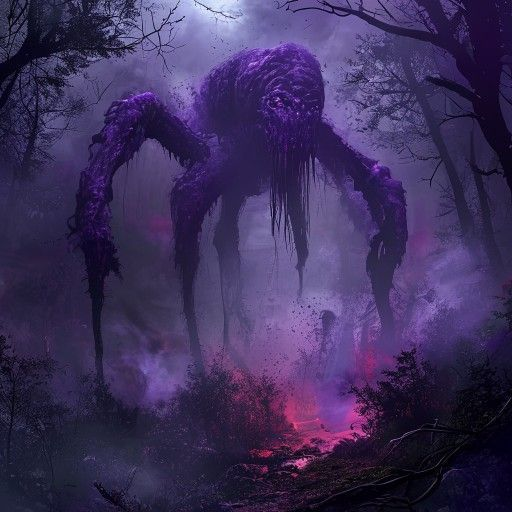
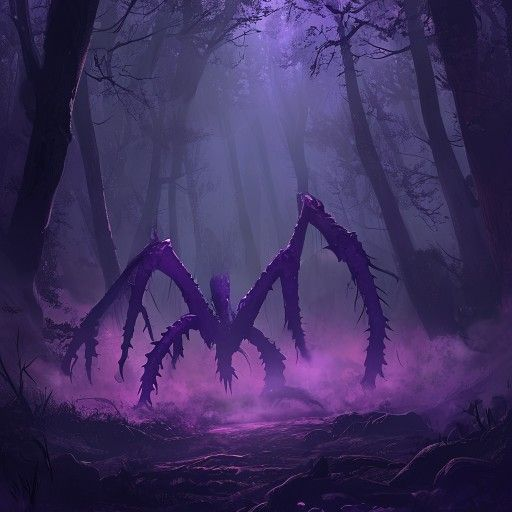
Part Two: The Next Day + Giant Legs grows five legs
Evan's new story continuation accessible from Part One ending:
- Slime Blob, Terradaxoar, and Giant Legs hunt Tree Surprisers
- They eat too many and EXPLODE
- Belly Bonker returns, zombie eats the remains
- Giant Legs grows from 2 to 5 legs (never gets hungry)
- 10 more zombies arrive, team up to 11
- Zombies spare Belly Bonker (friends!) and feast on the biggest tree
- 10 new scene images + updated Giant Legs portrait (5 legs)
- Sound effects and screen flashes for Part Two pages

diff --git a/index.html b/index.html
@@ -570,7 +570,7 @@
       <div class="monster-card" onclick="showMonsterInfo('giantlegs')">
         <img src="images/giant-legs.png" alt="Giant Legs" loading="lazy">
         <div class="name">Giant Legs</div>
-        <div class="power">Just legs. STOMP!</div>
+        <div class="power">FIVE legs. STOMP!</div>
       </div>
       <div class="monster-card" onclick="showMonsterInfo('terradaxoar')">
         <img src="images/terradaxoar.png" alt="Terradaxoar" loading="lazy">
@@ -819,6 +819,148 @@
     <span class="glow-green">A story by Evan</span>
   </div>
 
+  <div class="title-buttons">
+    <button class="restart-btn" onclick="restart()">Read Again? 🦇</button>
+    <button class="restart-btn battle-btn" onclick="goToPage('p2-1')">Part Two: The Next Day... 🌙</button>
+  </div>
+</div>
+
+<!-- ==================== PART TWO: PAGE 1 - THE HUNT ==================== -->
+<div class="page" id="p2-1">
+  <div class="story-image-container">
+    <img src="images/p2-villains-hunt.png" alt="The villains are hungry" loading="lazy">
+  </div>
+  <div class="story-text">
+    <span class="big-text">THE NEXT DAY...</span>
+    The sun went down and the forest got dark again. The <span class="highlight">Slime Blob</span>, the <span class="highlight">Terradaxoar</span>, and <span class="highlight">Giant Legs</span> woke up. They were <span class="glow-green">STARVING</span>. And they wanted to eat some Tree Surprisers.
+  </div>
+
+  <button class="next-btn" onclick="goToPage('p2-2')">But there were SO many trees... ➜</button>
+</div>
+
+<!-- ==================== PART TWO: PAGE 2 - TOO MANY TREES ==================== -->
+<div class="page" id="p2-2">
+  <div class="story-image-container">
+    <img src="images/p2-too-many-trees.png" alt="Too many Tree Surprisers!" loading="lazy">
+  </div>
+  <div class="story-text">
+    There were <span class="highlight">TOO MANY</span> Tree Surprisers! Everywhere they looked, trees with glowing eyes and mouths full of teeth. The Slime Blob only managed to eat <span class="glow-green">ONE</span>. But then they spotted one Tree Surpriser off by itself. It wasn't ready to battle. It was just standing there, sleepy...
+  </div>
+
+  <button class="next-btn" onclick="goToPage('p2-3')">Get it! ➜</button>
+</div>
+
+<!-- ==================== PART TWO: PAGE 3 - THEY EAT THE SLEEPY ONE ==================== -->
+<div class="page" id="p2-3">
+  <div class="story-image-container" id="p2EatScene">
+    <img src="images/p2-eat-sleepy-tree.png" alt="They eat the sleepy tree!" loading="lazy">
+  </div>
+  <div class="story-text">
+    The Slime Blob, the Terradaxoar, and Giant Legs all <span class="highlight">JUMPED</span> on the sleepy Tree Surpriser! It didn't even have time to open its mouths! They tore it apart and ate every last branch! But there were still <span class="glow-green">MORE</span> trees to eat. So they kept going. And going. And <span class="highlight">GOING</span>.
+  </div>
+
+  <button class="next-btn" onclick="goToPage('p2-4')">They ate them ALL?! ➜</button>
+</div>
+
+<!-- ==================== PART TWO: PAGE 4 - TOO FULL, EXPLODE ==================== -->
+<div class="page" id="p2-4">
+  <div class="explosion-wrapper" id="p2ExplosionWrapper">
+    <div class="story-image-container pulse-red" id="p2ExplosionScene">
+      <img src="images/p2-too-full-explode.png" alt="They EXPLODED!" loading="lazy">
+    </div>
+    <canvas class="explosion-canvas" id="p2ExplosionCanvas"></canvas>
+  </div>
+  <div class="story-text">
+    They ate <span class="highlight">EVERY. SINGLE. TREE SURPRISER.</span> Their bellies were so full they could barely move. The Slime Blob was round as a basketball. Giant Legs could barely stand. The Terradaxoar couldn't even fly. And then...
+    <br>
+    <span class="big-text">THEY EXPLODED!!!</span>
+    Slime and wood and legs and eyeballs went <span class="highlight">EVERYWHERE</span>.
+  </div>
+
+  <button class="next-btn" onclick="goToPage('p2-5')">Then what crawled out of the ground? ➜</button>
+</div>
+
+<!-- ==================== PART TWO: PAGE 5 - BELLY BONKER RETURNS ==================== -->
+<div class="page" id="p2-5">
+  <div class="story-image-container" id="p2BellyScene">
+    <img src="images/p2-belly-returns.png" alt="Belly Bonker comes back!" loading="lazy">
+  </div>
+  <div class="story-text">
+    <span class="big-text">BOOOOM.</span>
+    The ground cracked open and the <span class="highlight">Belly Bonker</span> crawled out! Its belly eye glowed <span class="glow-green">bright green</span>. It looked around at the mess. Bits of Slime Blob, Terradaxoar pieces, and Giant Legs parts were scattered everywhere.
+    <br><br>
+    Then a <span class="highlight">GIANT ZOMBIE</span> stomped over and ate what was left of all three of them! Swallowed the Slime Blob, the Terradaxoar, and the Giant Legs in three huge bites!
+  </div>
+
+  <button class="next-btn" onclick="goToPage('p2-6')">Wait... Giant Legs looks different! ➜</button>
+</div>
+
+<!-- ==================== PART TWO: PAGE 6 - GIANT LEGS GROWS FIVE LEGS ==================== -->
+<div class="page" id="p2-6">
+  <div class="story-image-container">
+    <img src="images/p2-five-legs.png" alt="Giant Legs grows FIVE legs!" loading="lazy">
+  </div>
+  <div class="story-text">
+    But inside the zombie's belly, something was happening. <span class="highlight">Giant Legs</span> was changing. It used to have two legs. Now it was growing more. Three... four... <span class="big-text">FIVE LEGS!!!</span>
+    With five legs, Giant Legs could poop and pee out a <span class="highlight">TON</span> of stuff at the same time. That meant it <span class="glow-green">NEVER got hungry</span>. Ever. It burst right out of the zombie!
+  </div>
+
+  <button class="next-btn" onclick="goToPage('p2-7')">Then the ground started shaking AGAIN... ➜</button>
+</div>
+
+<!-- ==================== PART TWO: PAGE 7 - TEN MORE ZOMBIES ==================== -->
+<div class="page" id="p2-7">
+  <div class="story-image-container pulse-red" id="p2ZombieScene">
+    <img src="images/p2-ten-zombies.png" alt="TEN MORE ZOMBIES!" loading="lazy">
+  </div>
+  <div class="story-text">
+    <span class="big-text">BOOM. BOOM. BOOM. BOOM. BOOM.</span>
+    The ground cracked open in <span class="highlight">TEN</span> different places. <span class="highlight">TEN MORE GIANT ZOMBIES</span> crawled out of the earth! They stomped over to the first zombie and they all looked at each other. They were a <span class="glow-green">TEAM</span>. <span class="highlight">ELEVEN ZOMBIES</span>.
+  </div>
+
+  <button class="next-btn" onclick="goToPage('p2-8')">What did they want to eat?! ➜</button>
+</div>
+
+<!-- ==================== PART TWO: PAGE 8 - FRIENDS WITH BELLY BONKER ==================== -->
+<div class="page" id="p2-8">
+  <div class="story-image-container">
+    <img src="images/p2-zombies-belly-friends.png" alt="The zombies and Belly Bonker are friends!" loading="lazy">
+  </div>
+  <div class="story-text">
+    The eleven zombies turned toward the <span class="highlight">Belly Bonker</span>. They wanted to <span class="highlight">FEAST</span>. But wait... the Belly Bonker's eye looked up at them. They remembered. The Belly Bonker and the zombies were <span class="glow-green">good friends</span>. They couldn't eat a friend!
+    <br><br>
+    So the eleven zombies needed to find something <span class="highlight">ELSE</span> to eat.
+  </div>
+
+  <button class="next-btn" onclick="goToPage('p2-9')">There was one tree left... ➜</button>
+</div>
+
+<!-- ==================== PART TWO: PAGE 9 - THE BIGGEST TREE ==================== -->
+<div class="page" id="p2-9">
+  <div class="story-image-container" id="p2BigTreeScene">
+    <img src="images/p2-biggest-tree.png" alt="The BIGGEST Tree Surpriser!" loading="lazy">
+  </div>
+  <div class="story-text">
+    There was still <span class="highlight">ONE</span> more Tree Surpriser. The <span class="big-text">BIGGEST ONE</span> in the entire forest. Taller than a skyscraper. Roots as thick as cars. And it had more mouths than any tree they'd ever seen. But eleven zombies didn't care. They <span class="highlight">CHARGED</span>.
+  </div>
+
+  <button class="next-btn" onclick="goToPage('p2-end')">CHOMP!!! ➜</button>
+</div>
+
+<!-- ==================== PART TWO: ENDING ==================== -->
+<div class="page" id="p2-end">
+  <div class="story-image-container">
+    <img src="images/p2-zombies-feast.png" alt="The zombies feast!" loading="lazy">
+  </div>
+  <div class="story-text">
+    The eleven zombies tore into the biggest Tree Surpriser from every side! They ripped branches, chewed roots, and swallowed everything. The Belly Bonker watched from a safe distance, belly eye glowing softly. When it was over, the biggest tree in the forest was <span class="highlight">GONE</span>.
+    <br><br>
+    The zombies let out eleven <span class="highlight">ROARS</span> that shook the whole world. Then they sank back into the ground, one by one. The Belly Bonker's eye dimmed. The forest was empty and quiet.
+    <br><br>
+    <span class="big-text">THE END</span>
+    <span class="glow-green">Part Two — A story by Evan</span>
+  </div>
+
   <button class="restart-btn" onclick="restart()">Read Again? 🦇</button>
 </div>
 
@@ -1045,6 +1187,36 @@
         document.getElementById('zombieScene')?.classList.remove('mega-shake');
         flashScreen('red');
       }, 1000);
+    } else if (pageId === 'p2-3') {
+      playSpookySound('chomp');
+      document.getElementById('p2EatScene')?.classList.add('shake');
+      setTimeout(() => document.getElementById('p2EatScene')?.classList.remove('shake'), 600);
+    } else if (pageId === 'p2-4') {
+      playSpookySound('explosion');
+      flashScreen('red');
+      document.getElementById('p2ExplosionScene')?.classList.add('mega-shake');
+      setTimeout(() => {
+        flashScreen('green');
+        document.getElementById('p2ExplosionScene')?.classList.remove('mega-shake');
+      }, 300);
+      setTimeout(() => flashScreen('red'), 600);
+    } else if (pageId === 'p2-5') {
+      playSpookySound('zombie');
+      flashScreen('red');
+      document.getElementById('p2BellyScene')?.classList.add('shake');
+      setTimeout(() => document.getElementById('p2BellyScene')?.classList.remove('shake'), 600);
+    } else if (pageId === 'p2-7') {
+      playSpookySound('zombie');
+      flashScreen('red');
+      document.getElementById('p2ZombieScene')?.classList.add('mega-shake');
+      setTimeout(() => {
+        document.getElementById('p2ZombieScene')?.classList.remove('mega-shake');
+        flashScreen('red');
+      }, 1000);
+    } else if (pageId === 'p2-9') {
+      playSpookySound('chomp');
+      document.getElementById('p2BigTreeScene')?.classList.add('shake');
+      setTimeout(() => document.getElementById('p2BigTreeScene')?.classList.remove('shake'), 600);
     } else {
       playSpookySound('page');
     }
@@ -1074,7 +1246,7 @@
       power: 'Invisible to everyone! Looks just like a rock!',
       weakness: 'Only the Spider Scope can see it!' },
     giantlegs: { img: 'images/giant-legs.png', name: 'Giant Legs',
-      power: 'No body, no head. JUST LEGS. Stomps everything flat!',
+      power: 'No body, no head. FIVE LEGS that stomp everything flat! Never gets hungry!',
       weakness: 'Has no eyes or brain... runs into things and falls over!' },
     terradaxoar: { img: 'images/terradaxoar.png', name: 'Terradaxoar',
       power: 'Flies with FIVE eyes that see everything, and an ELECTRIC TAIL that zaps!',

diff --git a/generate_images.py b/generate_images.py
@@ -14,7 +14,7 @@ STYLE = "dark fantasy digital art, spooky childrens book illustration, dark atmo
 
 # === MONSTER PORTRAITS ===
 PORTRAITS = {
-    'giant-legs.png': f"a terrifying creature that is ONLY giant muscular purple legs with NO body NO head NO torso, just four enormous legs stomping through a dark haunted forest at night, dust clouds from stomping, {STYLE}",
+    'giant-legs.png': f"a terrifying creature that is ONLY giant muscular purple legs with NO body NO head NO torso, exactly FIVE enormous legs arranged in a star pattern stomping through a dark haunted forest at night, dust clouds from stomping, {STYLE}",
     'terradaxoar.png': f"a dark flying monster called Terradaxoar soaring through a night sky, it has exactly FIVE glowing orange eyes arranged in a horizontal row across its wide flat head like a row of five headlights, dark blue-grey bat-like wings spread wide, sharp talons, and a long whip-like tail crackling with blue-white electricity and lightning bolts, menacing, {STYLE}",
     'slime-blob.png': f"a round spiky green slime monster with an evil grin and glowing red eyes, covered in sharp spikes, pieces of it floating nearby reconnecting with green energy lines showing it can regenerate and heal, dark forest background, {STYLE}",
 }
@@ -42,6 +42,20 @@ BATTLES = {
     'battle-giantlegs-terradaxoar.png': f"a dark flying monster with exactly FIVE glowing orange eyes in a row across its flat head and an electric lightning tail attacking enormous disembodied legs from above, diving and striking repeatedly while the legs kick uselessly at the sky, dramatic battle, {STYLE}",
     'battle-giantlegs-healbeast.png': f"enormous disembodied giant legs repeatedly stomping a round green slime blob flat, the slime trying to reform but getting stomped again and again, dark dramatic scene, {STYLE}",
     'battle-terradaxoar-healbeast.png': f"a dark flying monster with exactly FIVE glowing orange eyes in a row across its flat head and an electric lightning tail carrying green slime pieces in different directions over five different oceans, dropping the pieces far apart so they cannot heal back together, epic aerial scene, {STYLE}",
+}
+
+# === PART TWO STORY SCENES ===
+PART_TWO = {
+    'p2-villains-hunt.png': f"a green spiky slime blob monster, a dark flying bat monster with glowing eyes and lightning tail, and enormous disembodied purple legs all prowling through a dark forest at night looking hungry, menacing trio of monsters hunting together, {STYLE}",
+    'p2-too-many-trees.png': f"hundreds of monstrous evil tree creatures with glowing eyes and mouths full of teeth filling an entire dark forest, three small monsters looking overwhelmed and surrounded, {STYLE}",
+    'p2-eat-sleepy-tree.png': f"three monsters attacking a single sleepy monstrous tree creature, a slime blob a flying bat creature and giant legs all jumping on the tree and tearing it apart, wood flying everywhere, dark forest, {STYLE}",
+    'p2-too-full-explode.png': f"three monsters with enormously bloated round bellies about to EXPLODE from eating too much, a green slime blob round as a ball, giant legs wobbling, a flying creature too heavy to fly, all about to burst, dark forest with tree debris everywhere, {STYLE}",
+    'p2-belly-returns.png': f"a dark furry monster with a glowing green belly button eye crawling out of a crack in the ground, a giant zombie stomping nearby eating monster remains, dark dramatic scene, {STYLE}",
+    'p2-five-legs.png': f"a terrifying creature that is ONLY five enormous muscular purple legs arranged in a star pattern with NO body NO head, the legs glowing with energy, bursting out of a giant zombie stomach, dramatic dark scene with debris flying, {STYLE}",
+    'p2-ten-zombies.png': f"TEN giant zombies crawling out of cracks in the ground simultaneously, rotting green flesh and glowing red eyes, the ground splitting open in ten places, apocalyptic dark scene, {STYLE}",
+    'p2-zombies-belly-friends.png': f"eleven giant zombies standing peacefully next to a small dark furry monster with a glowing green belly button eye, they are friends not fighting, the zombies looking down at the small monster fondly, dark forest clearing, {STYLE}",
+    'p2-biggest-tree.png': f"the BIGGEST most enormous monstrous tree creature ever seen towering over an entire forest, taller than a skyscraper, with dozens of mouths full of teeth and glowing eyes all over its trunk, roots as thick as cars, eleven tiny zombies charging at its base, epic scale dark fantasy scene, {STYLE}",
+    'p2-zombies-feast.png': f"eleven giant zombies tearing apart an enormous monstrous tree creature from every side, ripping branches and eating wood, green slime and wood debris everywhere, epic dark fantasy battle feast scene, {STYLE}",
 }
 
 def download_image(name, prompt, retries=2):
@@ -86,6 +100,9 @@ def main():
     if '--portraits-only' not in sys.argv:
         print("=== GENERATING BATTLE SCENES ===")
         all_images.update(BATTLES)
+
+    print("=== GENERATING PART TWO SCENES ===")
+    all_images.update(PART_TWO)
 
     print(f"Total images to generate: {len(all_images)}")
 
